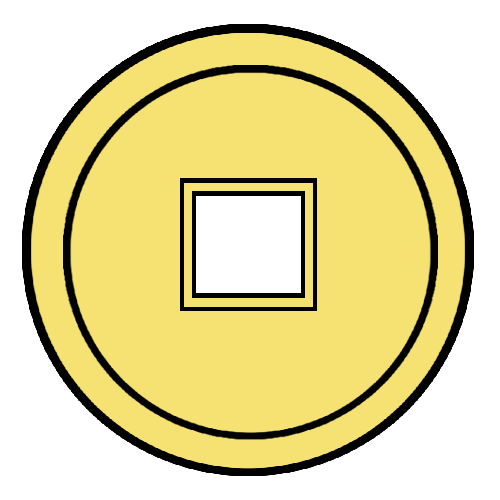
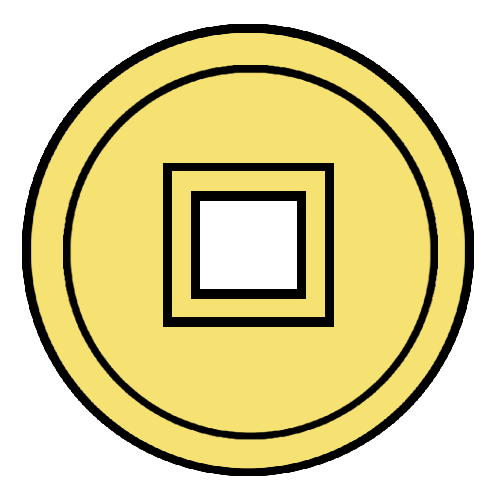
coin attaining works
now I just need to fix flash bug add unlocking buildings/ repairing them and getting items

Changed region(s): [[0.3, 0.3, 0.69, 0.66]]

diff --git a/Assets/Scrripts/GameManager.cs b/Assets/Scrripts/GameManager.cs
@@ -9,11 +9,13 @@ public class GameManager : MonoBehaviour
     public GameObject lossPan;
     public GameObject pickPan;
     private EnemysSystem enmsSys;
+    public Text TextCoins;
+    private int playerCoins;
 
     void Start()
     {
-        
         enmsSys = GetComponent<EnemysSystem>();
+        playerCoins = 0;
     }
 
 
@@ -48,5 +50,11 @@ public class GameManager : MonoBehaviour
     {
         lossPan.SetActive(false);
         Time.timeScale = 1f;
+    }
+
+    public void PayOut(int coin)
+    {
+        playerCoins += coin;
+        TextCoins.text = playerCoins.ToString();
     }
 }

diff --git a/Assets/Scrripts/enmy.cs b/Assets/Scrripts/enmy.cs
@@ -32,6 +32,8 @@ public class enmy : MonoBehaviour
     public Material matWhite;
     private Material matDefault;
 
+    [SerializeField] int minCoin, maxCoin;
+
     enum attackState 
     { 
         waiting,readying,swinging,damaging,damaged
@@ -62,6 +64,7 @@ public class enmy : MonoBehaviour
             foreach (var atk in curAtks)
                 Destroy(atk);
             enmsSys.Died(this.gameObject);
+            mainCam.GetComponent<GameManager>().PayOut(Random.Range(minCoin, maxCoin));
             Destroy(this.gameObject);
         }
         if (HP > maxHP)
